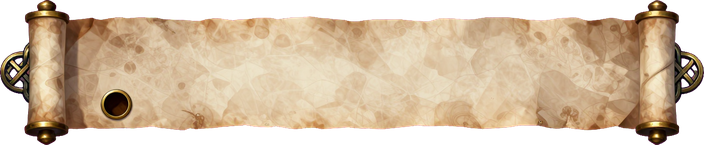
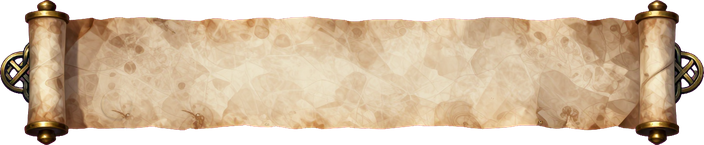
modern paperdoll: name fits the plaque, books to the top band, button socket painted out, no dark halo on the doll

Changed region(s): [[0.125, 0.5793, 0.1875, 0.8552]]

diff --git a/Assets/UOClient.Unity/Runtime/UI/GumpArt.cs b/Assets/UOClient.Unity/Runtime/UI/GumpArt.cs
@@ -184,9 +184,53 @@ namespace UOClient.Unity.UI
             UiImage stock = Gump(id, hue, partial);
             if (stock == null)
                 return _smooth[(id, hue, partial)] = null;
-            Texture2D tex = UnityTextures.ToTexture(Scale2x(stock.Bitmap), $"gump 0x{id:X4} smooth");
+            Texture2D tex = UnityTextures.ToTexture(Scale2x(Bleed(stock.Bitmap, 3)), $"gump 0x{id:X4} smooth");
             tex.filterMode = FilterMode.Bilinear;
             return _smooth[(id, hue, partial)] = new UiImage { Bitmap = stock.Bitmap, Texture = tex };
+        }
+
+        /// <summary>
+        /// A copy whose transparent pixels carry the mean colour of their opaque (or already filled) neighbours, still
+        /// transparent, <paramref name="passes"/> deep: filtering then blends an edge with its own colour, not black.
+        /// </summary>
+        public static Bitmap32 Bleed(Bitmap32 src, int passes)
+        {
+            int w = src.Width, h = src.Height;
+            var px = (uint[])src.Pixels.Clone();
+            var filled = new bool[px.Length];
+            for (int i = 0; i < px.Length; i++)
+                filled[i] = (px[i] >> 24) != 0;
+            for (int pass = 0; pass < passes; pass++)
+            {
+                var next = (uint[])px.Clone();
+                var nextFilled = (bool[])filled.Clone();
+                for (int y = 0; y < h; y++)
+                    for (int x = 0; x < w; x++)
+                    {
+                        int i = y * w + x;
+                        if (filled[i])
+                            continue;
+                        int r = 0, g = 0, b = 0, n = 0;
+                        for (int dy = -1; dy <= 1; dy++)
+                            for (int dx = -1; dx <= 1; dx++)
+                            {
+                                int sx = x + dx, sy = y + dy;
+                                if (sx < 0 || sy < 0 || sx >= w || sy >= h || !filled[sy * w + sx])
+                                    continue;
+                                uint p = px[sy * w + sx];
+                                r += (int)((p >> 16) & 0xFF); g += (int)((p >> 8) & 0xFF); b += (int)(p & 0xFF); n++;
+                            }
+                        if (n == 0)
+                            continue;
+                        next[i] = (uint)(r / n) << 16 | (uint)(g / n) << 8 | (uint)(b / n); // alpha stays 0
+                        nextFilled[i] = true;
+                    }
+                px = next;
+                filled = nextFilled;
+            }
+            var dst = new Bitmap32(w, h);
+            System.Array.Copy(px, dst.Pixels, px.Length);
+            return dst;
         }
 
         private readonly Dictionary<(int, RectInt), UiImage> _cutouts = new Dictionary<(int, RectInt), UiImage>();

diff --git a/Assets/UOClient.Unity/Runtime/UI/PaperdollWindow.Modern.cs b/Assets/UOClient.Unity/Runtime/UI/PaperdollWindow.Modern.cs
@@ -72,14 +72,19 @@ namespace UOClient.Unity.UI
             _combatBook = books ? Art.Gump(CombatBookIcon) : null;
             _racialBook = racial ? Art.Gump(RacialBookIcon) : null;
             var plaque = new Rect(Border, doll.yMax + PlaqueGap, w - Border * 2f, PlaqueH);
-            float bx = plaque.x + 16f;
+            // The books at the top band's right end (clear of the round buttons, which are centred).
+            float bx = w - Border - 10f;
+            if (_racialBook != null)
+            {
+                bx -= _racialBook.Width;
+                _racialAt = new Vector2(bx, Border + (IconBand - _racialBook.Height) / 2f);
+                bx -= 6f;
+            }
             if (_combatBook != null)
             {
-                _combatAt = new Vector2(bx, plaque.y + (plaque.height - _combatBook.Height) / 2f);
-                bx += _combatBook.Width + 6f;
+                bx -= _combatBook.Width;
+                _combatAt = new Vector2(bx, Border + (IconBand - _combatBook.Height) / 2f);
             }
-            if (_racialBook != null)
-                _racialAt = new Vector2(bx, plaque.y + (plaque.height - _racialBook.Height) / 2f);
 
             // The body and what is worn, as the classic paperdoll layers them; larger, centred in the niche.
             bool female = IsFemale(m.Body);
@@ -158,7 +163,8 @@ namespace UOClient.Unity.UI
             DrawImage(_combatBook, _combatAt.x, _combatAt.y);
             DrawImage(_racialBook, _racialAt.x, _racialAt.y);
             (string name, string rest) = SplitTitle(_title ?? m.Name ?? "");
-            float textLeft = plaque.x + 60f, textW = plaque.width - 120f;
+            float caps = plaque.height * 1.25f; // the knotwork caps at either end
+            float textLeft = plaque.x + caps, textW = plaque.width - caps * 2f;
             PaperdollSkin.Title(new Rect(textLeft, plaque.y + (rest.Length > 0 ? 6f : 16f), textW, 28f), name, 22, PaperdollSkin.Gold);
             if (rest.Length > 0)
                 PaperdollSkin.Title(new Rect(textLeft, plaque.y + 34f, textW, 20f), rest, 14, PaperdollSkin.GoldFaded);

diff --git a/Assets/UOClient.Unity/Runtime/UI/PaperdollSkin.cs b/Assets/UOClient.Unity/Runtime/UI/PaperdollSkin.cs
@@ -201,6 +201,10 @@ namespace UOClient.Unity.UI
             }
             _serif.fontSize = size;
             _serif.alignment = align;
+            // Too long for the rect (a long name and title): smaller, down to 9.
+            var content = new GUIContent(text);
+            while (_serif.fontSize > 9 && _serif.CalcSize(content).x > r.width)
+                _serif.fontSize--;
             if (shadow)
             {
                 _serif.normal.textColor = new Color(0f, 0f, 0f, 0.8f);
